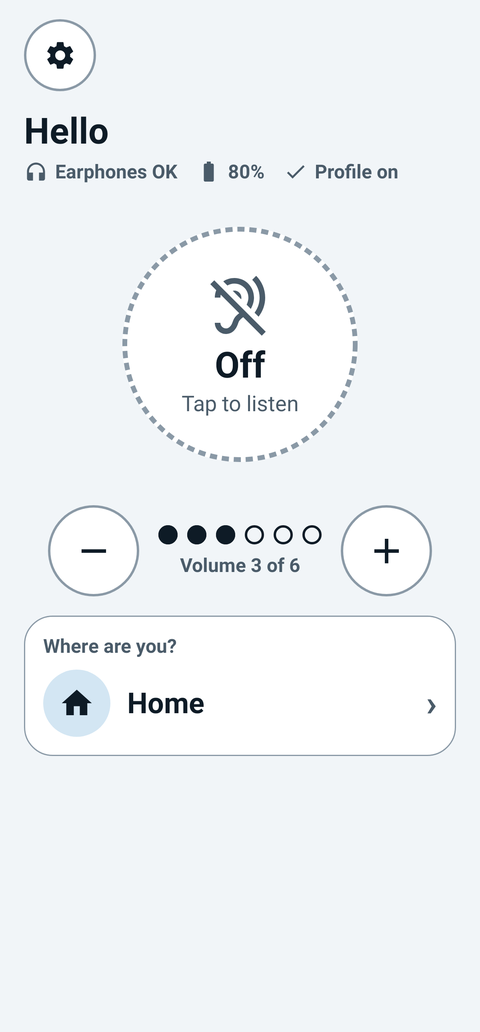
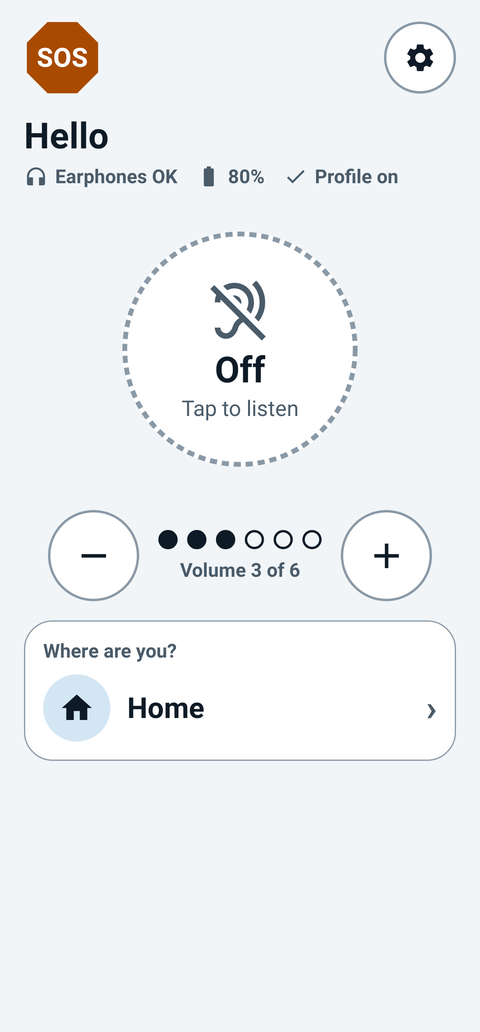
docs: Phase 4 SOS and mesh relay in arch.md, README and device checklist
- arch.md: SOS as built (10.2), relay design (8.2), roles, module map,
  platform facts to verify, build order and decision log (alarm
  button, SEND_SMS with fallback, emergency number via the phone app,
  background companion link, one-level relay).
- README: Phase 4 status and the SOS privacy note.
- DEVICE_TESTING: SOS and mesh checklist (no tests with real 112).
- Screenshots of the SOS screens, companion SOS card and TV banner;
  Home now shows the SOS button.

Claude-Session: https://claude.ai/code/session_01NtADXPhSUxhaFkfE2n4ZjR

diff --git a/arch.md b/arch.md
@@ -138,12 +138,12 @@ min SDK 26, NDK 30, CMake 4.1.2, ktlint and detekt.
 | `local-storage` | EarCast | Android | Profiles and preferences (DataStore) |
 | `audio-quality` | EarCast | Tooling | Offline audio regression bench |
 | `audio-graph` | New (Phase 2) | Kotlin/JVM | `Resampler`, `JitterBuffer`, `RemoteAudioHub` (companions' voices), `VoiceMixer` (ducks the room while a person talks). `OutputPolicy` comes with hearing-aid mode |
-| `link` | New (Phase 2) | Kotlin/JVM | `JoinCode` (QR payload), `LinkCrypto` (HKDF + AES-GCM), `LinkMessage`, `LinkHost` / `LinkClient`, `StreamChannel`, socket transport. Relay comes in Phase 4 |
-| `link-android` | New (Phase 2) | Android | Default transports without Google services: `WifiDirectHost/Joiner`, `BluetoothHost/Joiner` (L2CAP), `OpusCodec`, `LinkPermissions` |
+| `link` | New (Phase 2) | Kotlin/JVM | `JoinCode` (QR payload), `LinkCrypto` (HKDF + AES-GCM), `LinkMessage`, `LinkHost` / `LinkClient`, `StreamChannel`, socket transport. `Sos` / `SosReply` messages, `LinkRelay` (two-hop mesh relay) |
+| `link-android` | New (Phase 2) | Android | Default transports without Google services: `WifiDirectHost/Joiner`, `BluetoothHost/Joiner` (L2CAP, relay flag in the advert), `OpusCodec`, `LinkPermissions`, `LinkConnector` / `LinkHosting` / `RelayHosting` |
 | `link-nearby` | New, optional | Android | Google Nearby Connections, only in the optional `gms` build |
 | `sender-core` | New | Android | Playback capture and mic capture → Opus → `link`. Used by `companion` and `tv` |
 | `telephony` | New | Android | Phone-app role, call screens, call routing, call screening. `patient` only |
-| `sos` | New | Android | SOS flow and alert fan-out. Trigger in `patient`; alert receiver in all flavours |
+| `sos` (package in `app`, built in Phase 4) | New | Android | `SosController`, `SosActions` (calls, texts, GPS, speaker alarm), `SosService`. Trigger in `patient`; alerts shown in `companion` (`FamilyLinkService`, SOS card) and `tv` (banner). A package, not a module |
 | `captions` | New (Proposed) | Android | Offline speech-to-text for people talking through Suno |
 | `app` | EarCast, restructured | Android app | Flavours `patient`, `companion`, `tv`; shared EarCast screens in `main` |
 
@@ -245,6 +245,12 @@ A set-up code is never accepted as a patient code, and a TV only takes a patient
 - Audio uses short direct links, centred on the patient's phone (star).
 - **Mesh mode (Decided):** devices forward for each other. Audio is relayed **at most 2 hops** to keep delay low.
   SOS, presence and control messages flood the **whole** mesh and cannot be switched off.
+- **Built in Phase 4:** one relay level. A companion connected directly to the patient advertises the patient's session
+  on Bluetooth LE with a relay flag. A phone that cannot reach the patient connects to it, and each of its connections
+  is piped to a new connection from the relay to the patient (`LinkRelay`). The relay forwards encrypted bytes it
+  cannot read; keys stay end to end and the patient still allows or refuses the far phone. Joiners prefer the patient's
+  own advert; a phone that joined through a relay never relays, so everything stays within 2 hops, and the SOS reaches
+  every device in the mesh (all are connections of the patient's phone).
 - Google Nearby Connections does not relay by itself; forwarding is Suno code in `link`.
 - "Anywhere" means within radio range of the mesh (a house or building). There is no online mode.
 
@@ -255,6 +261,7 @@ A set-up code is never accepted as a patient code, and a TV only takes a patient
 | Patient hub | Status, SOS, approvals, relayed audio | All audio sources, remote-help commands |
 | Companion | Talk audio, shared playback or mic audio, remote-help commands, SOS replies | Patient status, SOS alerts |
 | TV | TV playback audio (media stream) | The patient's join code from a companion (set-up), SOS banner |
+| Relay (a companion) | Piped bytes of far phones, unread | Piped bytes for far phones |
 
 Remote help from a companion is limited to listening on/off, volume up to the helper's cap, and place. The patient's
 phone shows who changed what.
@@ -302,15 +309,32 @@ Suno requests the default phone-app role (`RoleManager.ROLE_DIALER`).
 - The role gives control of call routing and volume and lets SOS place calls directly. It does **not** give access to
   call audio ([section 6.1](#61-the-audiogram-rule)).
 
-### 10.2 SOS — Decided
+### 10.2 SOS — Decided, built in Phase 4
 
-1. One tap on SOS opens a calm question: "Do you need help?" with **Yes, get help** and **No, go back**. No countdown.
-2. On Yes, Suno: calls the helper, then 112 if unanswered; texts the GPS location to chosen contacts; alerts every
-   device in the mesh (companions get a full-screen alert, the TV shows a banner); sounds a loud alarm on the speaker.
-3. A companion can reply **I'm on my way**, which appears on the patient's SOS screen.
+1. One tap on the vermillion octagon **SOS** opens a calm question: "Do you need help?" with **Yes, get help** and
+   **No, go back**. No countdown.
+2. On Yes, Suno (`SosController`):
+   - alerts every device on the family link at once. The link starts hosting if it was not, and phones that reconnect
+     during the SOS are told when they join. The place is sent again once GPS finds it;
+   - stops listening (no amplified sound during SOS);
+   - calls the helper (`ACTION_CALL` with CALL_PHONE, or the phone app prefilled without it);
+   - finds the GPS place without internet (about 20 s, else the last known place);
+   - texts the helper's numbers with the place. This is automatic when SEND_SMS is allowed; otherwise one tap opens
+     the messaging app prefilled;
+   - shows **Call 112** (the helper can change the number) as a big button. It opens the phone app prefilled, because
+     Android does not let apps call emergency numbers directly.
+3. **Alarm:** a big **Sound alarm / Stop alarm** button. The helper can make it start on its own. It plays only on the
+   built-in speaker (`USAGE_ALARM`, preferred device); if the speaker cannot be chosen it stays silent and never plays
+   into earphones or hearing aids.
+4. Companions get a full-screen alert (`FamilyLinkService`, alarm-category notification) and an SOS card with the
+   place, **Open map** and **I'm on my way**. Answers appear on the patient's SOS screen and on every other companion.
+   The TV shows a banner.
+5. **I'm safe now** ends it: everyone is told and the alarm stops. `SosService` keeps Suno running during the call.
 
-`SEND_SMS` is restricted on Google Play; the fallback is opening the messaging app with the text prefilled *(To verify)*.
-GPS works without internet.
+Not yet: automatic "112 if the helper does not answer". It needs call state from the phone-app role, so it comes in
+Phase 5. SEND_SMS is restricted on Google Play; a Play build would drop it and use the prefilled messaging app
+*(To verify)*. GPS works without internet. The companion stays linked in the background with a notification, and
+reconnects after 15 s, 30 s, then every 60 s. It does not start after a reboot until Suno Companion is opened.
 
 ## 11. User interface
 
@@ -426,7 +450,8 @@ Either way, `link` hides the transport behind one interface, so the choice can w
 5. Fire OS version and capture support on current Fire TV devices.
 6. Phones not exposing A2DP sink; Auracast source being system-only.
 7. Default phone-app role behaviour across OEMs (Samsung, Xiaomi, Pixel); `CallScreeningService`; auto-answer.
-8. `SEND_SMS` policy route on Google Play for SOS.
+8. `SEND_SMS` policy route on Google Play for SOS; full-screen alerts on Android 14+ (`USE_FULL_SCREEN_INTENT` is
+   limited to calling and alarm apps); alarm routing to the speaker only; background link battery; relay range.
 9. Hearing-aid detection and hearing-aid mode with ASHA and LE Audio aids.
 10. Offline Hindi speech recognition quality and cost (captions).
 11. CPU, heat and battery of each noise-reduction engine on budget phones.
@@ -445,7 +470,7 @@ Each slice is usable on its own.
 | 1 | Patient layout: Listen, volume, places, Home levels, zero-tap, Pictures mode, Hindi, themes, Helper PIN |
 | 2 | `audio-graph` + `link`: companion joins by QR and talks; captions if verified |
 | 3 | TV sound: cable sender in `companion`, then the `tv` flavour **(built, not on a device)** |
-| 4 | SOS and companion alerts; mesh relay |
+| 4 | SOS and companion alerts; mesh relay **(built, not on a device)** |
 | 5 | Phone app, contacts, home-screen role (store policy review needed) |
 
 Checks for every slice: `./gradlew ktlintCheck detekt test testDebugUnitTest` plus assembling all three flavours.
@@ -481,3 +506,9 @@ Anything involving real sound, radios or calls needs physical devices and a writ
 | 2026-11-21 | Companion "Share sound": TV by cable (USB-C audio adapter), microphone near the TV, or this phone's playback (MediaProjection). |
 | 2026-11-21 | TVs are set up by a companion phone scanning the TV's set-up QR and handing over the patient's code over the encrypted link (TVs have no camera). |
 | 2026-11-21 | Phase 3 done: media streams, companion Share sound and Set up a TV, Suno TV app (10-foot screen, remote focus, playback capture), screenshot tests. Not on a device yet. |
+| 2026-11-21 | SOS texts are sent automatically when SEND_SMS is allowed, otherwise the messaging app opens prefilled; the patient app declares SEND_SMS (GitHub / F-Droid builds). |
+| 2026-11-21 | The SOS alarm is a button (the helper can make it automatic), so it does not drown out the call; speaker only, silent if the speaker cannot be chosen. This changes "sounds a loud alarm" in 10.2. |
+| 2026-11-21 | Emergency number is a button that opens the phone app; automatic escalation waits for the phone-app role (Phase 5). |
+| 2026-11-21 | The companion stays linked in the background (foreground notification, reconnect backoff) so SOS alerts arrive. |
+| 2026-11-21 | Mesh relay: one level over Bluetooth LE, transparent and end-to-end encrypted, at most 2 hops. |
+| 2026-11-21 | Phase 4 done: SOS (patient), SOS alerts and I'm on my way (companion), TV banner, background link, relay, screenshot tests. Not on a device yet. |

diff --git a/docs/DEVICE_TESTING.md b/docs/DEVICE_TESTING.md
@@ -9,6 +9,30 @@ checks and emulator runs do not validate acoustic loudness, latency or clarity.
 adb install -r app/build/outputs/apk/patient/debug/app-patient-debug.apk
 ```
 
+## Suno SOS and mesh (Phase 4, not yet checked on a device)
+
+Needs the patient phone with a SIM, two companion phones and, if possible, a Suno TV. Use a family member's number as
+the helper and as the emergency number for testing; **do not test with real 112**.
+
+- Helper mode → Settings → SOS: enter the helper and text numbers, set the emergency number to a test number, and tap
+  Allow calls, texts and location.
+- Tap SOS → No, go back: nothing is sent. Tap SOS → Yes, get help:
+  - every connected companion shows the full-screen alert, including with its screen locked and Suno Companion closed;
+  - the helper's phone rings;
+  - texts arrive with the place (check accuracy indoors and outdoors, with mobile data off);
+  - the TV shows the banner.
+- Without SMS permission: the SOS screen shows Send text with my place, which opens the messaging app prefilled.
+- The emergency button opens the phone app with the number filled in.
+- Alarm with wired and Bluetooth earphones connected: sound comes only from the phone speaker, never in the
+  earphones. On a phone where the speaker cannot be chosen, the button stays off.
+- Companion: I'm on my way appears on the patient's SOS screen and on the other companion. I'm safe now: companions
+  show safe now, the notification changes, the alarm stops.
+- Late joiner: with the patient not listening, a companion out of range comes in range during an SOS. It should get
+  the alert within about a minute.
+- Background link: leave Suno Companion closed for an hour; note battery use and whether the notification stays.
+- Relay: companion A near the patient, companion B out of the patient's range but near A. B shows Through another
+  family phone, can talk, and gets the SOS. Note the range and the delay.
+
 ## Suno TV sound (Phase 3, not yet checked on a device)
 
 Needs the two phones above plus, where available, an Android TV / Google TV (Android 10+) and a Fire TV.

diff --git a/README.md b/README.md
@@ -12,9 +12,11 @@ Suno is a sound-amplification tool. **It is not a medical device** and does not 
 
 ## Status
 
-Early development. Phases 0–3 are built: the EarCast code base imported, renamed and split into three apps with
+Early development. Phases 0–4 are built: the EarCast code base imported, renamed and split into three apps with
 safety fixes; the patient's simple Home with a helper PIN; the family link, where a companion joins by QR and talks to
-the patient; and TV sound, sent from a phone by cable or from the Suno TV app, set up by a family member's phone. The architecture, decisions and build plan are in [arch.md](arch.md). Nothing has been validated
+the patient; TV sound, sent from a phone by cable or from the Suno TV app, set up by a family member's phone; and SOS,
+which alerts family phones and the TV, calls the helper and texts the patient's place, with a relay for phones out of
+range. The architecture, decisions and build plan are in [arch.md](arch.md). Nothing has been validated
 on real hardware yet.
 
 ## Build
@@ -44,7 +46,8 @@ Suno is designed to work without internet, an account, analytics or recordings. 
 devices that the user has approved, over Wi-Fi Direct or Bluetooth, and every frame is encrypted. The patient,
 companion and TV apps declare the `INTERNET` permission only because Android requires it for any network socket, including the
 local Wi-Fi Direct group; Suno makes no internet connections. A companion can only send its voice; nobody can listen
-through the patient's phone.
+through the patient's phone. In an SOS the patient's phone texts its GPS place to the numbers the helper chose, through
+the phone's own SMS.
 
 ## License
 
